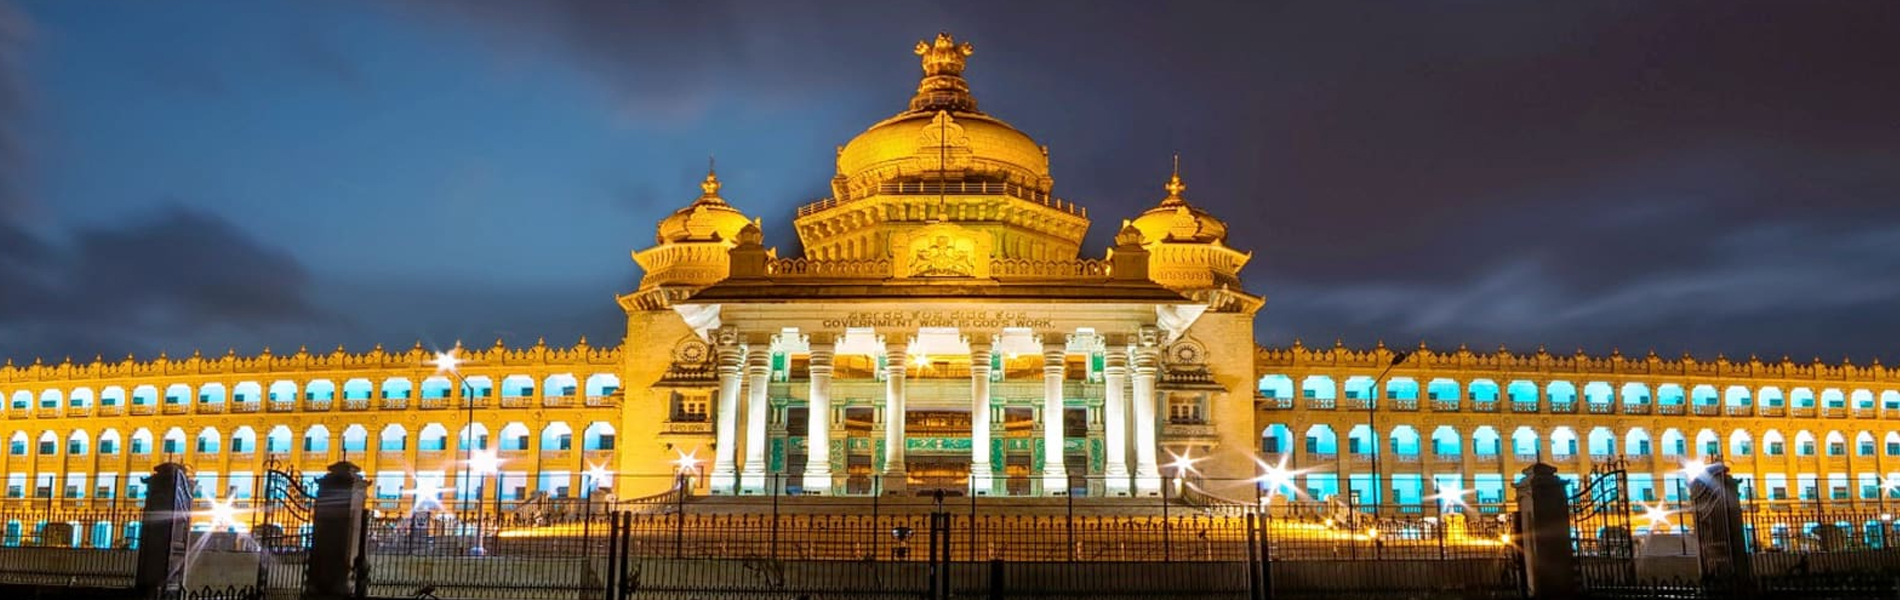
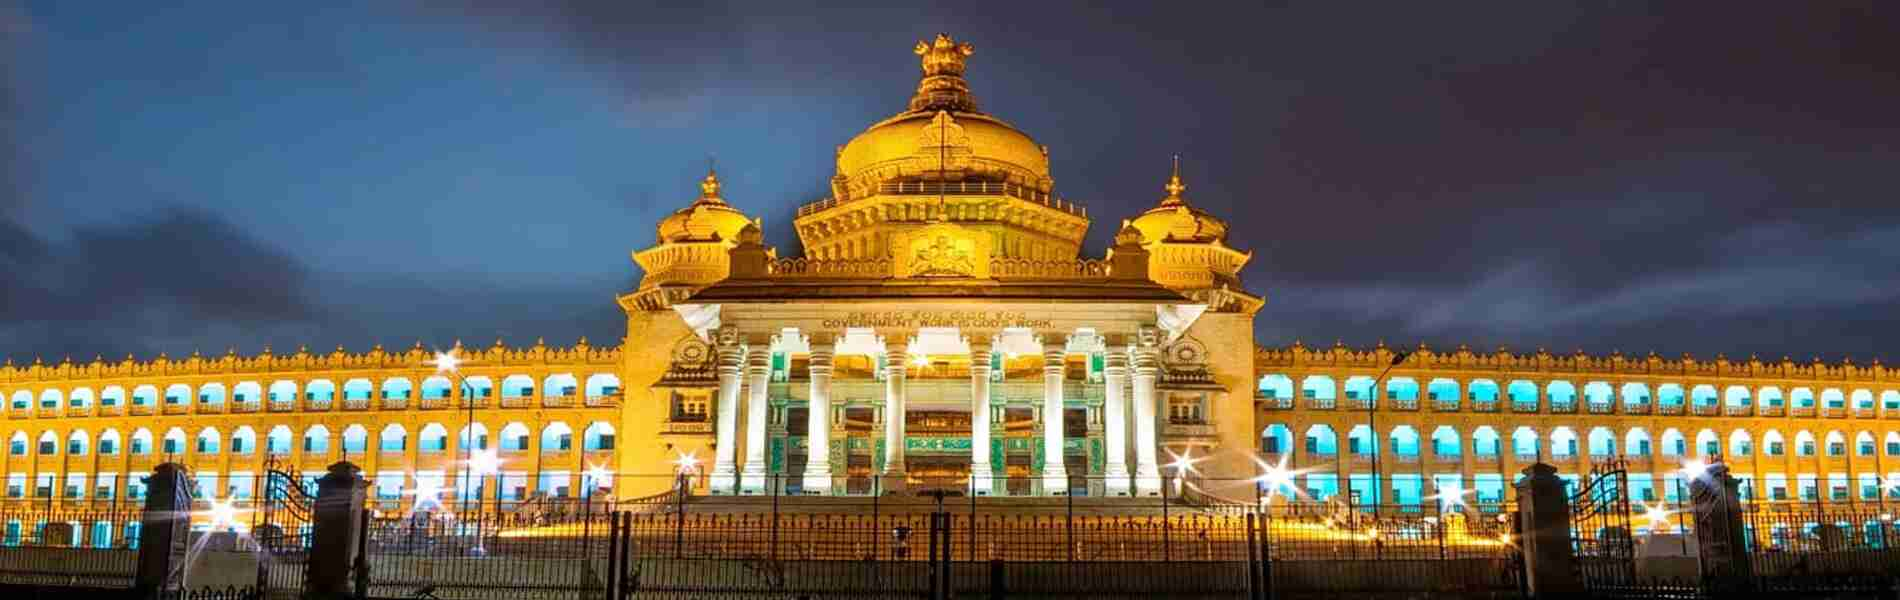
webp img

diff --git a/index.html b/index.html
@@ -7617,7 +7617,7 @@
                                     <div class="col-sm-12 padding-remove">
                                         <div class="col-md-4 col-sm-4 location_image package">
                                             <amp-img class="img-package"
-                                                src="css/Image/Package1.jpg"
+                                                src="css/Image/Package1.webp"
                                                 alt="Karnatak TEMPLE TOUR" title="Kashi-Temple" width="250"
                                                 height="213" layout="responsive"></amp-img>
                                             <div class="tag"><span class="blinking">Special Offer</span></div>
@@ -7821,7 +7821,7 @@
                                     <div class="col-sm-12 padding-remove">
                                         <div class="col-md-4 col-sm-4 location_image">
                                             <div class="tag"><span class="blinking">Special Offer</span></div>
-                                            <amp-img src="css/Image/Package2.jpg"
+                                            <amp-img src="css/Image/Package2.webp"
                                                 alt="Karnatak PRAYAGRAJ TOUR" title="Karnatak PRAYAGRAJ TOUR" width="250"
                                                 height="213" layout="responsive"></amp-img>
                                         </div>
@@ -8040,7 +8040,7 @@
                                     <div class="col-sm-12 padding-remove">
                                         <div class="col-md-4 col-sm-4 location_image">
                                             <div class="tag"><span class="blinking">Special Offer</span></div>
-                                            <amp-img src="css/Image/Package3.jpg"
+                                            <amp-img src="css/Image/Package3.webp"
                                                 alt="Karnatak-ayodhiya-prayagraj-chitrakoot"
                                                 title="Karnatak-ayodhiya-prayagraj-chitrakoot"width="250"
                                                 height="213" layout="responsive"></amp-img>
@@ -8262,7 +8262,7 @@
                                     <div class="col-sm-12 padding-remove">
                                         <div class="col-md-4 col-sm-4 location_image">
                                             <div class="tag"><span class="blinking">Special Offer</span></div>
-                                            <amp-img src="css/Image/Package4.jpg"
+                                            <amp-img src="css/Image/Package4.webp"
                                                 alt="Karnatak-ayodhiya-lucknow" title="Karnatak-ayodhiya-lucknow"width="250"
                                                 height="213" layout="responsive"></amp-img>
                                         </div>
@@ -8484,7 +8484,7 @@
                                     <div class="col-sm-12 padding-remove">
                                         <div class="col-md-4 col-sm-4 location_image">
                                             <div class="tag"><span class="blinking">Special Offer</span></div>
-                                            <amp-img src="css/Image/Package5.jpg"
+                                            <amp-img src="css/Image/Package5.webp"
                                                 alt="Karnatak-bodhgaya-kushinagar-lumbini-lucknow"
                                                 title="Karnatak-bodhgaya-kushinagar-lumbini-lucknow"width="250"
                                                 height="213" layout="responsive"></amp-img>
@@ -8711,7 +8711,7 @@
                                     <div class="col-sm-12 padding-remove">
                                         <div class="col-md-4 col-sm-4 location_image">
                                             <div class="tag"><span class="blinking">Special Offer</span></div>
-                                            <amp-img src="css/Image/Package6.jpg"
+                                            <amp-img src="css/Image/Package6.webp"
                                                 alt="Karnatak-bodhgaya-kushinagar-lumbini-lucknow"
                                                 title="Karnatak-bodhgaya-kushinagar-lumbini-lucknow"width="250"
                                                 height="213" layout="responsive"></amp-img>
@@ -8946,7 +8946,7 @@
                 <div class="content-wrapper">
 
                     <div class="news-card" onclick="SendEnquery()">
-                        <amp-img src="css/Image/Package1.jpg"
+                        <amp-img src="css/Image/Package1.webp"
                             alt="" class="news-card__image"width="345"
                             height="200" layout="responsive"></amp-img>
                         <div class="news-card__text-wrapper">
@@ -8957,7 +8957,7 @@
 
 
                     <div class="news-card" onclick="SendEnquery()">
-                        <amp-img src="css/Image/Package2.jpg"
+                        <amp-img src="css/Image/Package2.webp"
                             alt="" class="news-card__image"width="345"
                             height="200" layout="responsive"></amp-img>
                         <div class="news-card__text-wrapper">
@@ -8967,7 +8967,7 @@
                     </div>
 
                     <div class="news-card" onclick="SendEnquery()">
-                        <amp-img src="css/Image/Package3.jpg"
+                        <amp-img src="css/Image/Package3.webp"
                             alt="" class="news-card__image"width="345"
                             height="200" layout="responsive"></amp-img>
                         <div class="news-card__text-wrapper">
@@ -8977,7 +8977,7 @@
                     </div>
 
                     <div class="news-card" onclick="SendEnquery()">
-                        <amp-img src="css/Image/Package4.jpg"
+                        <amp-img src="css/Image/Package4.webp"
                             alt="" class="news-card__image"width="345"
                             height="200" layout="responsive"></amp-img>
                         <div class="news-card__text-wrapper">
@@ -8987,7 +8987,7 @@
                     </div>
 
                     <div class="news-card" onclick="SendEnquery()">
-                        <amp-img src="css/Image/Package5.jpg"
+                        <amp-img src="css/Image/Package5.webp"
                             alt="" class="news-card__image"width="345"
                             height="200" layout="responsive"></amp-img>
                         <div class="news-card__text-wrapper">
@@ -8997,7 +8997,7 @@
                     </div>
 
                     <div class="news-card" onclick="SendEnquery()">
-                        <amp-img src="css/Image/Package6.jpg"
+                        <amp-img src="css/Image/Package6.webp"
                             alt="" class="news-card__image"width="345"
                             height="200" layout="responsive"></amp-img>
                         <div class="news-card__text-wrapper">
